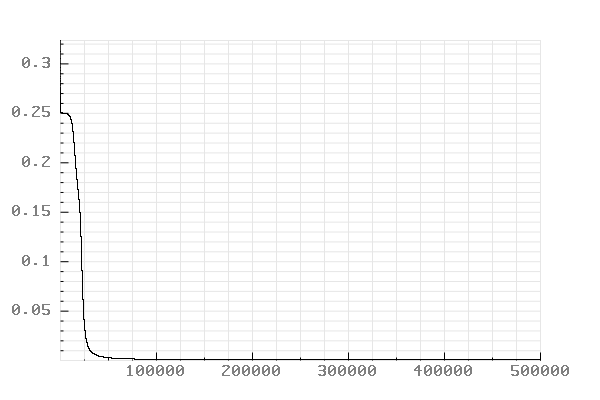
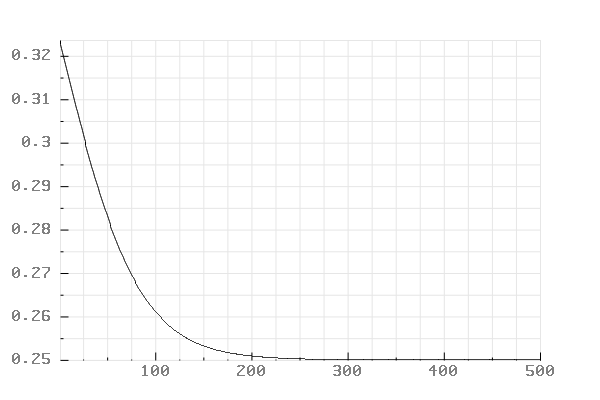
slight adjustments

diff --git a/NN-Library/NN-Library.cpp b/NN-Library/NN-Library.cpp
@@ -57,7 +57,7 @@ void PlotGraph(std::vector<double> x, std::vector<double> y, std::string fileNam
 	}
 }
 
-void XOR()
+void XOR(int iterations)
 {
 	std::vector<float> testInputs = { 0.0f, 0.0f };
 	std::vector<float> testWeights = { 0.2f, 0.8f, 0.4f, 0.6f };
@@ -79,7 +79,7 @@ void XOR()
 	nn->AddLayer(cLayer2);
 
 
-	const int iterations = 500000;
+	//const int iterations = 500000;
 	std::vector<float> outputs;
 	float cost = 0.0f;
 	std::vector<double> outputCosts(iterations);
@@ -140,7 +140,7 @@ void XOR()
 	system("XOR-CostOverTime.png");
 }
 
-void MNIST()
+void MNIST(int iterations)
 {
 	/*int width, height, bpp;
 
@@ -162,7 +162,7 @@ void MNIST()
 		std::cout << "\n";
 	}*/
 
-	int iterations = 1000;
+	//int iterations = 1000;
 	int batchSize = 150;
 	NeuralNetwork* nn = new NeuralNetwork(batchSize);
 	srand(time(NULL));
@@ -208,13 +208,9 @@ void MNIST()
 	}
 	std::vector<float> biases2(10);
 
-	//ConnectedLayer* layer2 = new ConnectedLayer(tempInputs3, weights, biases2, 10, ACTIVATION::SOFTMAX);
-
 	nn->AddLayer(convLayer);
 	nn->AddLayer(poolLayer);
 	nn->AddLayer(layer);
-
-	//nn->AddLayer(layer2);
 
 	std::vector<float> inputs;
 	int sizeOfImages = dataset.training_images[0].size();
@@ -348,17 +344,22 @@ void MNIST()
 int main()
 {
 	int choice = 0;
+	int iterations = 0;
 
 	std::cout << "1 for XOR or 2 for MNIST:";
 	std::cin >> choice;
+	
+	std::cout << "Number of training iterations (recommended 500,000 for XOR and 1,000 for MNIST):";
+	std::cin >> iterations;
+
 
 	switch (choice)
 	{
 	case 1:
-		XOR();
+		XOR(iterations);
 		break;
 	case 2:
-		MNIST();
+		MNIST(iterations);
 		break;
 	default:
 		std::cout << "Nothing has been selected";

diff --git a/NN-Library/ActivationFunctions.h b/NN-Library/ActivationFunctions.h
@@ -12,15 +12,3 @@ static inline float LeakyReLUActivation(float x) { return (x >= 0) ? x : 0.1f*x;
 
 float Activate(float x, ACTIVATION type);
 std::vector<float> ActivateArray(std::vector<float> inputs);
-//class ActivationFunction
-//{
-//public:
-//	ActivationFunction(ACTIVATION type);
-//	ActivationFunction(ACTIVATION type, float a);
-//
-//	float Activate(float x, ACTIVATION type);
-//
-//private:
-//	ACTIVATION activationType;
-//	float alpha;
-//};
